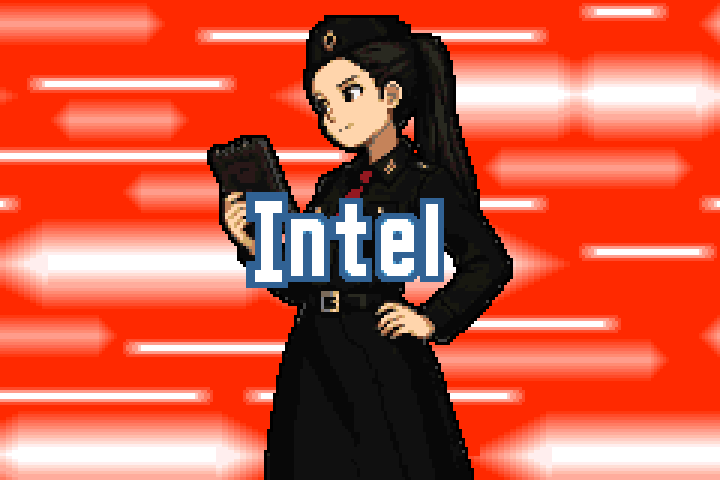
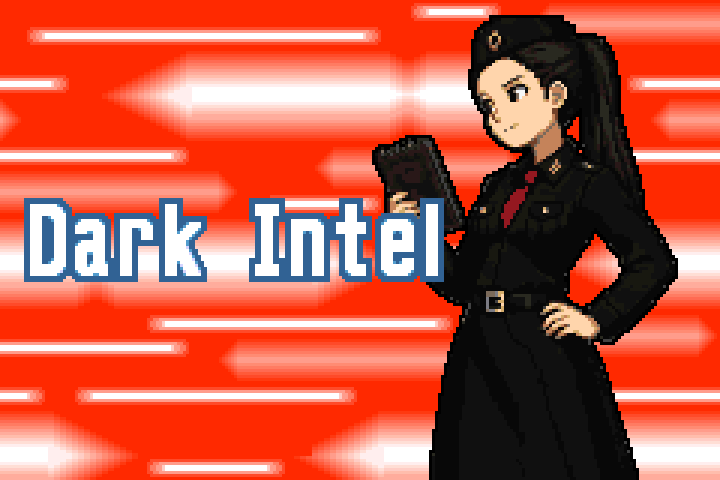
README: Asuka's picture shows the whole name of her power, Dark Intel

diff --git a/README.md b/README.md
@@ -14,7 +14,7 @@ No game is included: you need your own dump of the USA cartridge.
 <td><img src="docs/screenshots/es-versus.png" width="240" alt="A Versus battle: Emerald Sun's plumed legionaries and domed HQ against Black Hole"></td>
 </tr>
 <tr>
-<td><img src="docs/screenshots/asuka-co.png" width="240" alt="Asuka's Intel power cut-in"></td>
+<td><img src="docs/screenshots/asuka-co.png" width="240" alt="Asuka's Dark Intel power cut-in"></td>
 <td><img src="docs/screenshots/bh-story.png" width="240" alt="Sturm offering Von Bolt a place at his side in the BH Campaign"></td>
 </tr>
 </table>
